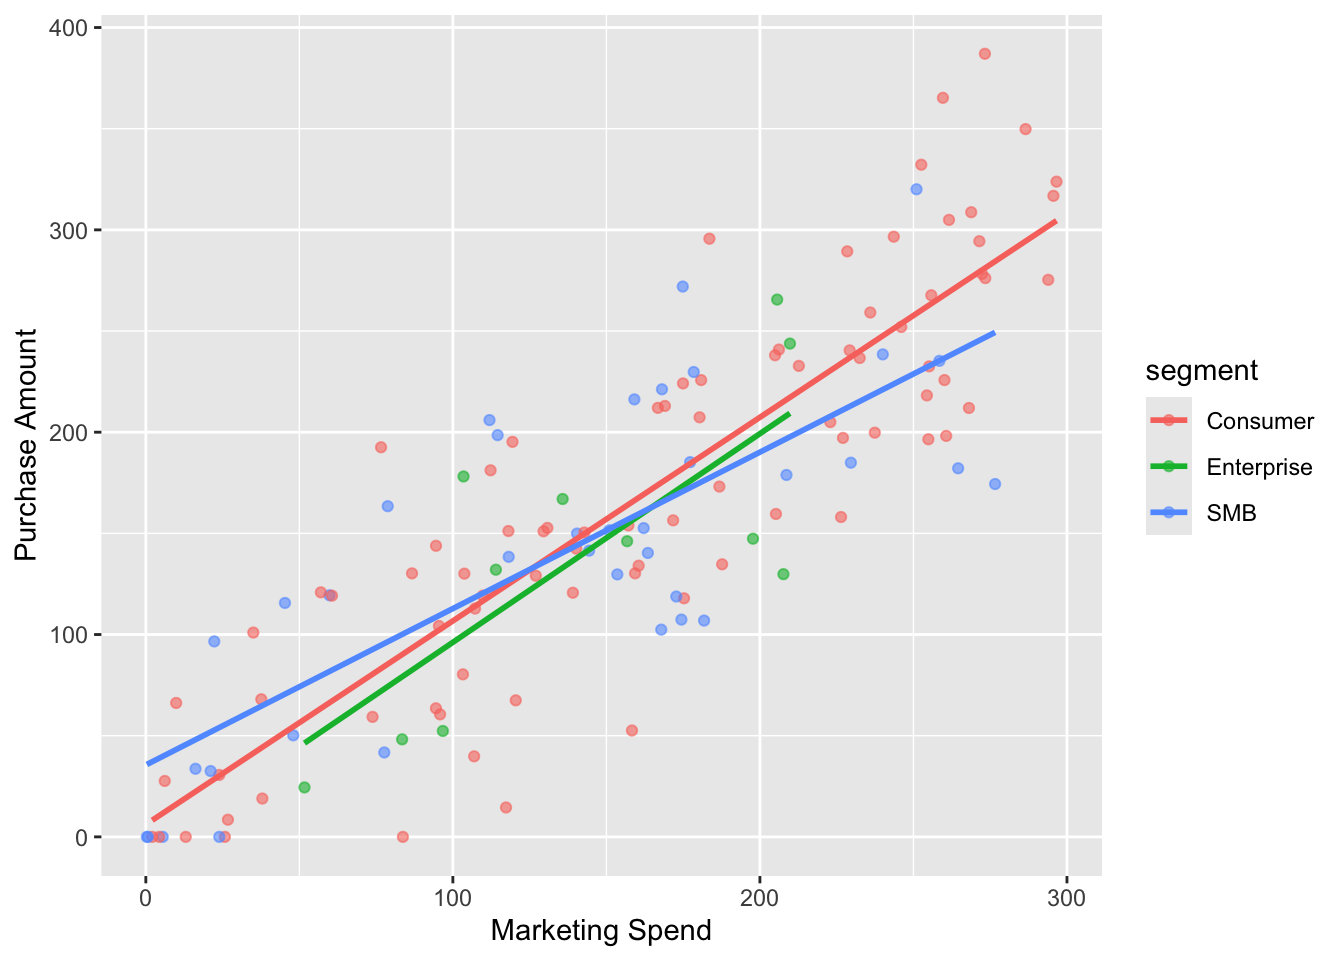
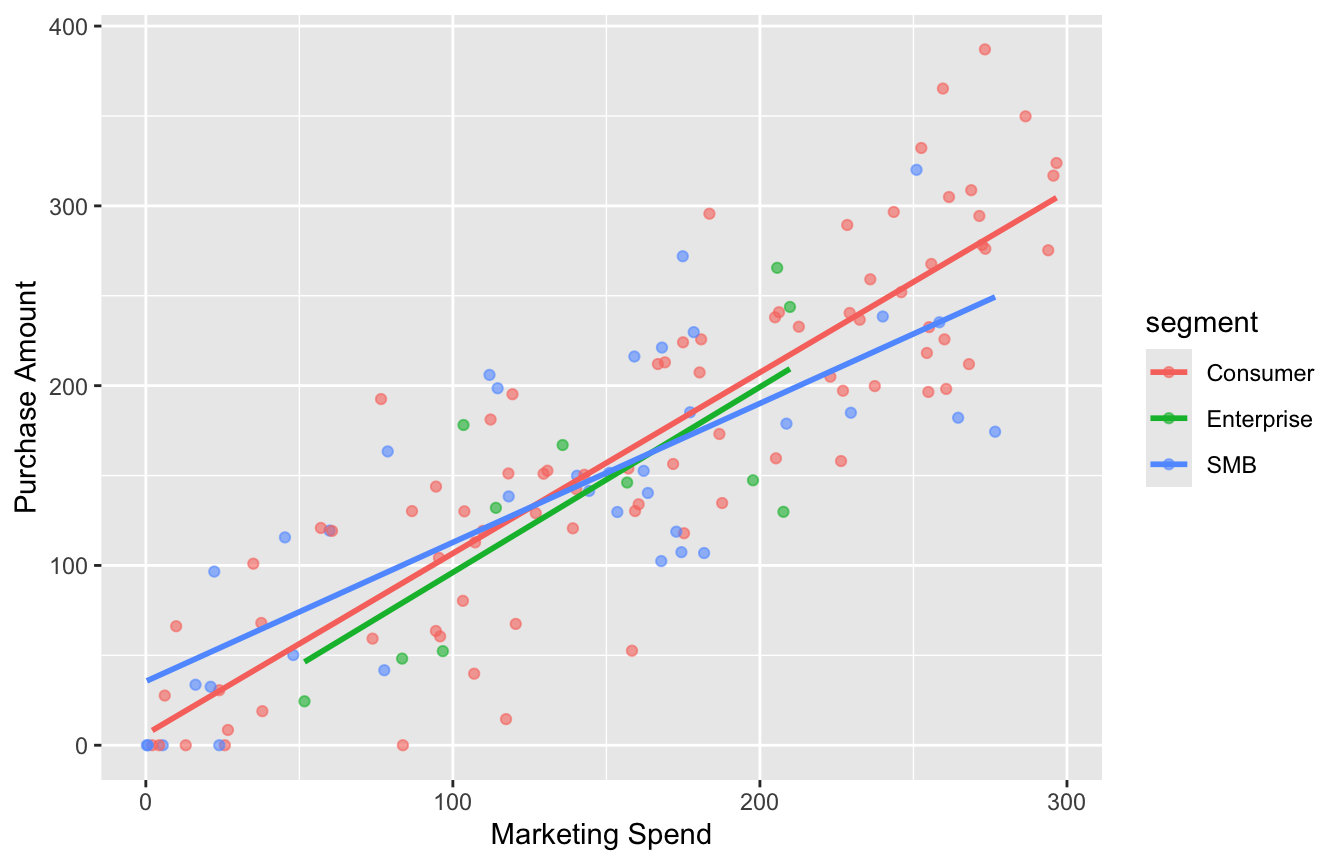
Changed figure sizes

diff --git a/Assignment1_Report.html b/Assignment1_Report.html
@@ -167,7 +167,7 @@ Figure&nbsp;1: Boxplots of marketing spend by segment
 <div id="fig-scatterplot" class="quarto-float quarto-figure quarto-figure-center anchored">
 <figure class="quarto-float quarto-float-fig figure">
 <div aria-describedby="fig-scatterplot-caption-0ceaefa1-69ba-4598-a22c-09a6ac19f8ca">
-<img src="Assignment1_Report_files/figure-html/fig-scatterplot-1.png" class="img-fluid figure-img" width="672">
+<img src="Assignment1_Report_files/figure-html/fig-scatterplot-1.png" class="img-fluid figure-img" style="width:80.0%">
 </div>
 <figcaption class="quarto-float-caption-bottom quarto-float-caption quarto-float-fig" id="fig-scatterplot-caption-0ceaefa1-69ba-4598-a22c-09a6ac19f8ca">
 Figure&nbsp;2: Scatterplot of marketing spend vs purchase amount by segment
